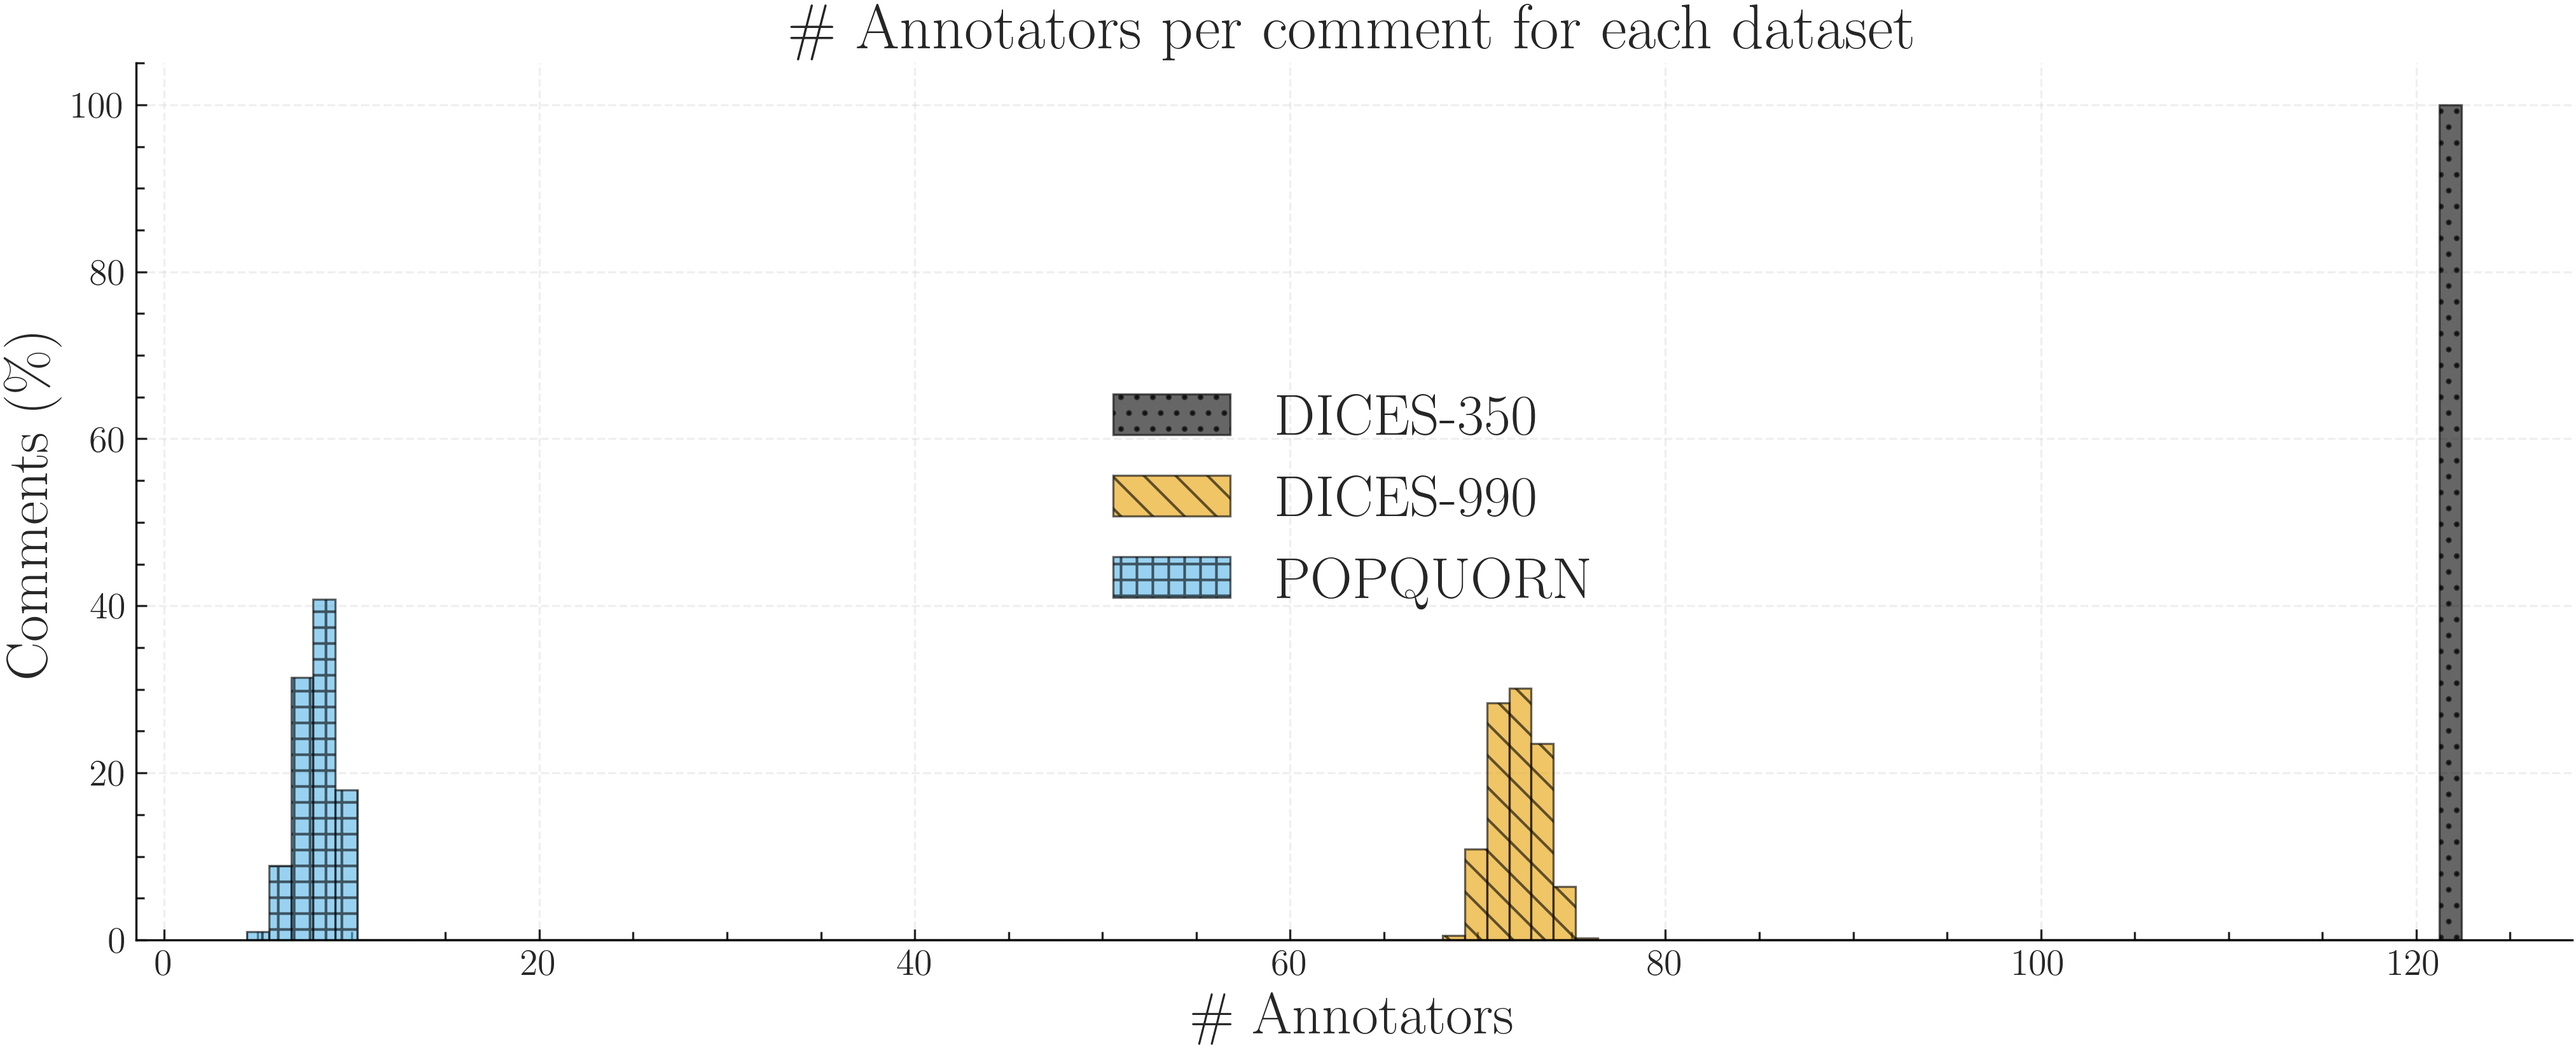
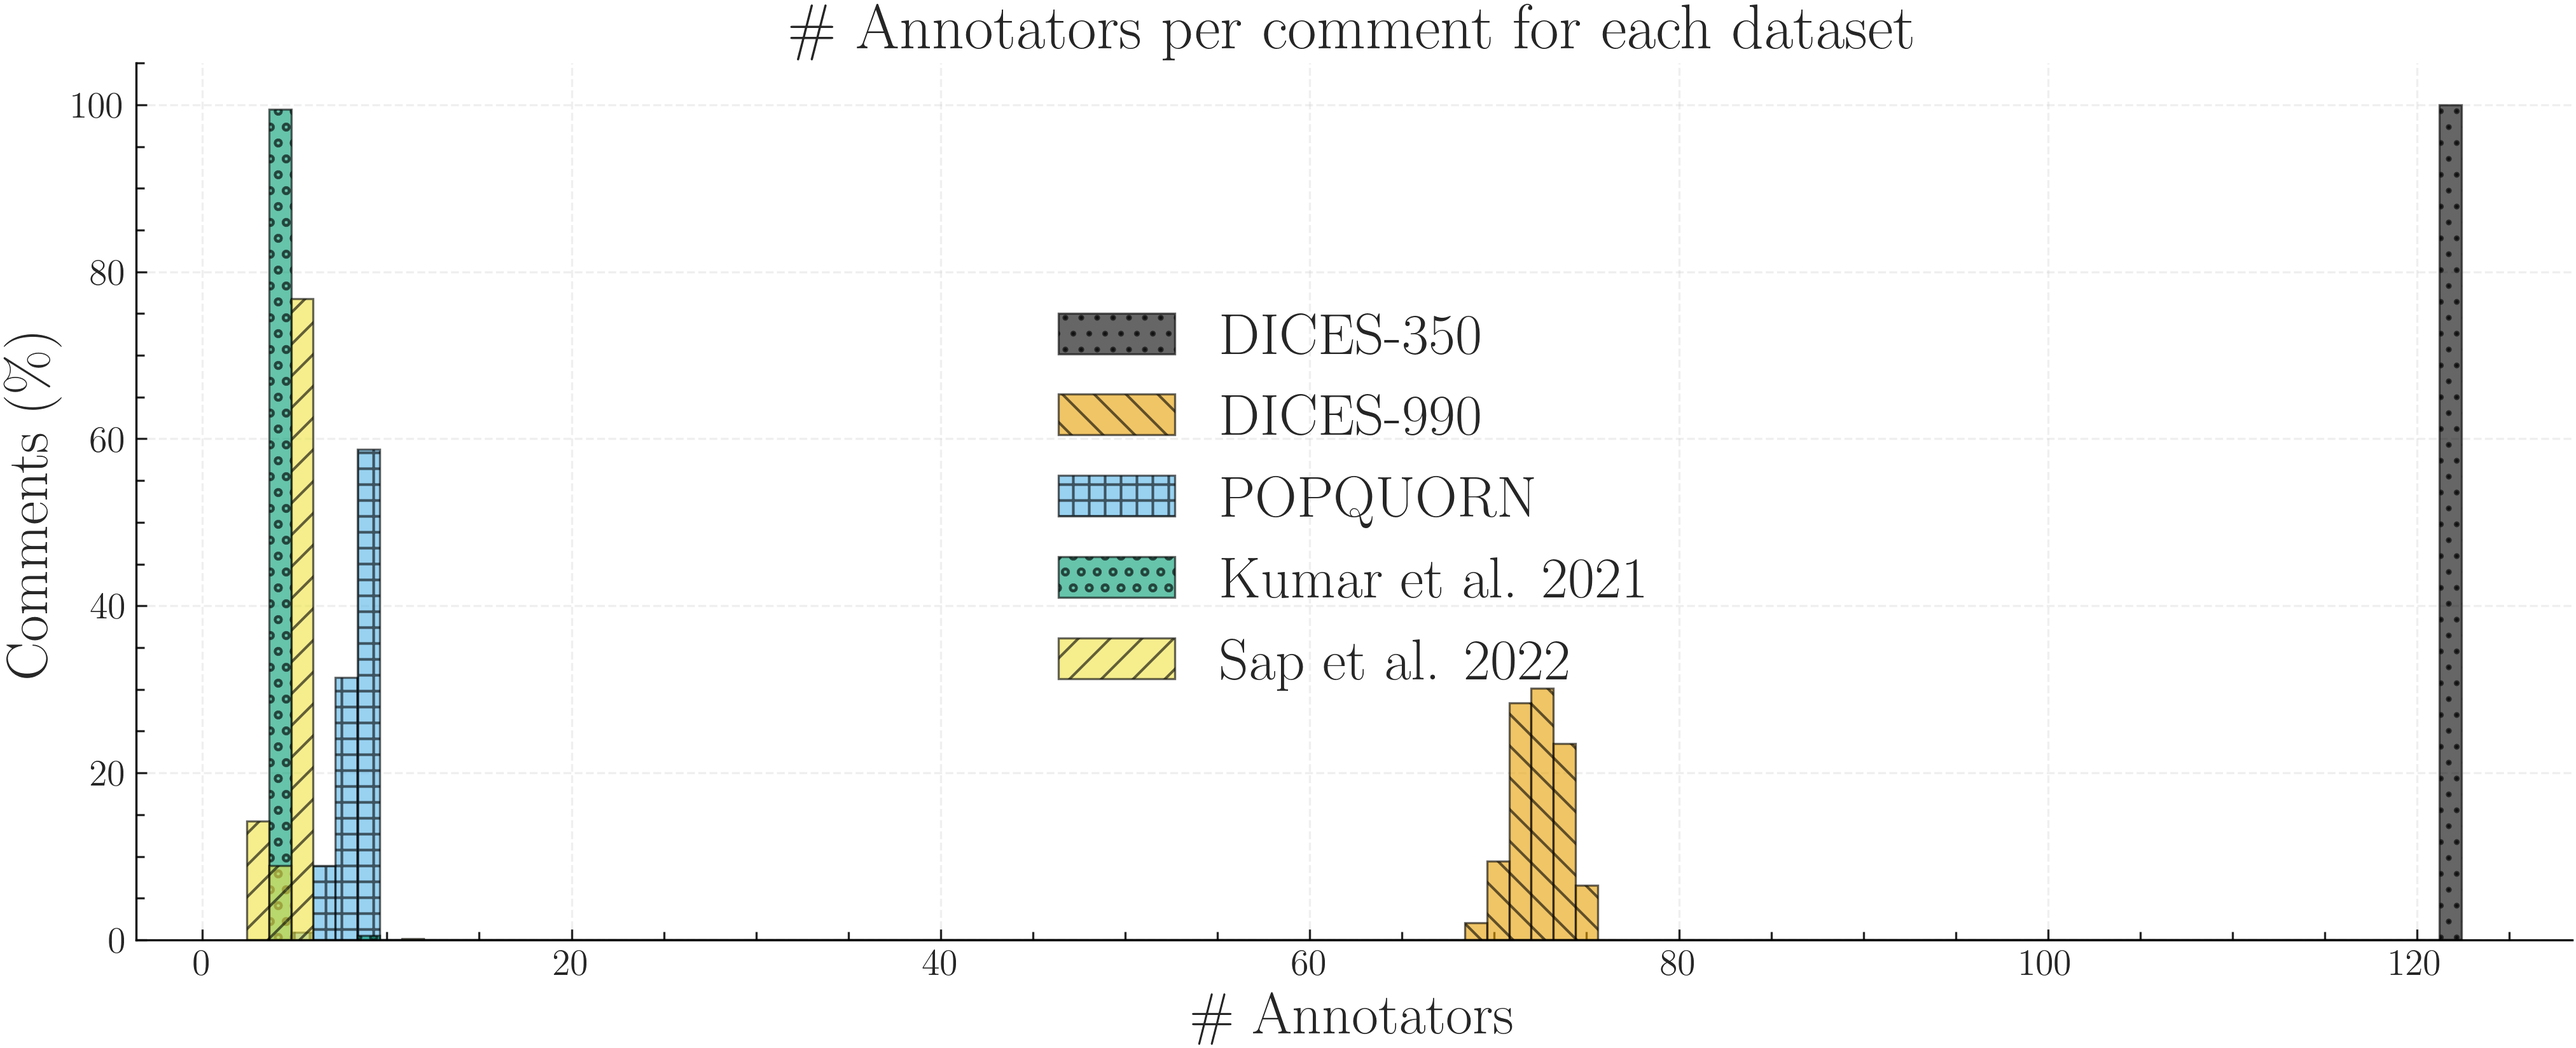
move dataset stats to export

diff --git a/src/human/export_results.py b/src/human/export_results.py
@@ -1,14 +1,23 @@
 import argparse
+from os import path
 from pathlib import Path
 
 import pandas as pd
 import numpy as np
+from scipy.sparse import data
 import seaborn as sns
 import matplotlib.pyplot as plt
 import matplotlib.patches as mpatches
 
 from ..lib import graphs
 from ..lib.util import center_table_latex, significance_superscript
+from ..lib.preprocessing import (
+    Dataset,
+    DicesDataset,
+    PopquornDataset,
+    SapDataset,
+    KumarDataset,
+)
 
 MIN_SUPPORT = 50
 SIG_ALPHA = 0.05  # p-value threshold for "statistically significant"
@@ -27,7 +36,16 @@ LINESTYLE_CYCLE = [
 ]
 
 
-def main(results_dir: Path, latex_output_dir: Path, graph_output_dir: Path):
+def main(
+    results_dir: Path,
+    dices_small_path: Path,
+    dices_large_path: Path,
+    popquorn_offensiveness_path: Path,
+    kumar_path: Path,
+    sap_path: Path,
+    latex_output_dir: Path,
+    graph_output_dir: Path,
+):
     graphs.graph_setup()
     csv_to_latex(
         result_paths=list(results_dir.rglob("*-results.csv")),
@@ -40,6 +58,41 @@ def main(results_dir: Path, latex_output_dir: Path, graph_output_dir: Path):
     plot_sample_size_polarization(
         csv_path=results_dir / "sample_size_polarization.csv",
         output_path=graph_output_dir / "sample_size_polarization.png",
+    )
+
+    dices350_ds = DicesDataset(dataset_path=dices_small_path, variant="350")
+    dices990_ds = DicesDataset(dataset_path=dices_large_path, variant="990")
+    popquorn_ds = PopquornDataset(dataset_path=popquorn_offensiveness_path)
+    kumar_ds = KumarDataset(dataset_path=kumar_path)
+    sap_ds = SapDataset(dataset_path=sap_path)
+    datasets: list[Dataset] = [
+        dices350_ds,
+        dices990_ds,
+        popquorn_ds,
+        kumar_ds,
+        sap_ds,
+    ]
+
+    Dataset.print_descriptive_statistics(datasets)
+    Dataset.print_annotation_count_table(datasets)
+
+    ann_size_df = get_annotator_counts_df(datasets)
+    stats_df = get_statistics_df(ann_size_df)
+    stats_df.to_latex(
+        latex_output_dir / "ann_stats.tex",
+        caption=(
+            "Descriptive statistics for the number of annotations per dataset."
+        ),
+        label="tab:num-annot",
+        position="ht",
+        index=True,
+        float_format="%.4f",
+        escape=True,
+    )
+
+    plot_annotator_count_histogram_from_datasets(
+        datasets=datasets,
+        graph_path=graph_output_dir / "annotator_count_histogram.png",
     )
 
 
@@ -111,6 +164,105 @@ def plot_dfu_histograms(
 
     graphs.save_plot(graph_output_dir / "apriori.png")
     plt.close()
+
+
+def plot_annotator_count_histogram_from_datasets(
+    datasets: list[Dataset],
+    graph_path: Path,
+):
+    """
+    Plot a histogram of annotator counts per comment across multiple datasets,
+    showing the percentage of comments for each bin.
+
+    Parameters
+    ----------
+    datasets : list
+        List of dataset objects.
+    graph_path : Path
+        If provided, saves the figure to this path.
+    """
+    N_BINS = 100
+    all_df = get_annotator_counts_df(datasets)
+
+    dataset_names = all_df["dataset"].unique().tolist()
+
+    # Determine bin boundaries
+    min_val = all_df["n_annotators"].min()
+    max_val = all_df["n_annotators"].max()
+    bins_edges = np.linspace(min_val, max_val, N_BINS + 1)
+    _, ax = plt.subplots()
+
+    for i, dataset_name in enumerate(dataset_names):
+        data_subset = all_df[all_df["dataset"] == dataset_name]["n_annotators"]
+
+        raw_counts, edges = np.histogram(data_subset, bins=bins_edges)
+
+        total_comments_for_dataset = len(data_subset)
+
+        if total_comments_for_dataset > 0:
+            percentage_counts = raw_counts / total_comments_for_dataset
+        else:
+            percentage_counts = np.zeros_like(raw_counts, dtype=float)
+
+        selected_color = graphs.COLORBLIND_PALETTE[
+            i % len(graphs.COLORBLIND_PALETTE)
+        ]
+        selected_hatch = graphs.HATCHES[i % len(graphs.HATCHES)]
+
+        ax.bar(
+            x=edges[:-1],
+            height=percentage_counts * 100,
+            width=(edges[1] - edges[0]),
+            label=dataset_name,
+            color=selected_color,
+            alpha=0.6,
+            hatch=selected_hatch,
+            edgecolor="black",
+        )
+
+    ax.legend(title=None, loc="center")
+    ax.set_xlabel(r"\# Annotators")
+    ax.set_ylabel(r"Comments (\%)")
+    ax.set_title(r"\# Annotators per comment for each dataset")
+    ax.grid(True, linestyle="--", alpha=0.3)
+    plt.tight_layout()
+
+    graphs.save_plot(graph_path)
+    plt.close()
+
+
+def get_annotator_counts_df(
+    datasets: list[Dataset],
+) -> pd.DataFrame:
+    rows = []
+
+    for ds in datasets:
+        df = ds.get_dataset().reset_index(drop=True)
+        ann_col = ds.get_annotation_column()
+        ds_name = ds.get_name()
+
+        tmp = pd.DataFrame(
+            {
+                "dataset": ds_name,
+                "n_annotators": df[ann_col].apply(len),
+            }
+        )
+        rows.append(tmp)
+
+    all_df = pd.concat(rows, ignore_index=True).dropna(subset=["n_annotators"])
+    return all_df
+
+
+def get_statistics_df(all_df: pd.DataFrame) -> pd.DataFrame:
+    """
+    Return a dataframe where each row corresponds to a dataset and each column
+    is a statistic from `describe()` applied to annotator counts.
+    """
+    return (
+        all_df.groupby("dataset")["n_annotators"]
+        .describe()  # computes count, mean, std, min, 25%, 50%, 75%, max
+        .rename_axis(index=None)  # optional: cleaner row index name
+    )
 
 
 def csv_to_latex(result_paths: list[Path], latex_output_dir: Path) -> None:
@@ -219,6 +371,31 @@ if __name__ == "__main__":
         help="Results CSV directory.",
     )
     parser.add_argument(
+        "--dices-small-path",
+        required=True,
+        help="Path to the DICES 350 annotator CSV file.",
+    )
+    parser.add_argument(
+        "--dices-large-path",
+        required=True,
+        help="Path to the DICES 990 annotator CSV file.",
+    )
+    parser.add_argument(
+        "--popquorn-path",
+        required=True,
+        help=("Path to the POPQUORN offensiveness dataset."),
+    )
+    parser.add_argument(
+        "--sap-path",
+        required=True,
+        help=("Path to the Sap dataset."),
+    )
+    parser.add_argument(
+        "--kumar-path",
+        required=True,
+        help=("Path to the Kumar dataset."),
+    )
+    parser.add_argument(
         "--latex-output-dir",
         required=True,
         help="Directory for the latex tables.",
@@ -231,6 +408,11 @@ if __name__ == "__main__":
     args = parser.parse_args()
     main(
         results_dir=Path(args.results_dir),
+        sap_path=Path(args.sap_path),
+        dices_small_path=Path(args.dices_small_path),
+        dices_large_path=Path(args.dices_large_path),
+        kumar_path=Path(args.kumar_path),
+        popquorn_offensiveness_path=Path(args.popquorn_path),
         latex_output_dir=Path(args.latex_output_dir),
         graph_output_dir=Path(args.graph_output_dir),
     )

diff --git a/src/human/variance_analysis.py b/src/human/variance_analysis.py
@@ -64,7 +64,6 @@ _UNDISCLOSED = {
 def main(
     dices_small_path: Path,
     dices_large_path: Path,
-    latex_output_dir: Path,
     popquorn_offensiveness_path: Path,
     graph_dir: Path,
     cache_dir: Path,
@@ -75,28 +74,6 @@ def main(
     dices990_ds = DicesDataset(dataset_path=dices_large_path, variant="990")
     popquorn_ds = PopquornDataset(dataset_path=popquorn_offensiveness_path)
     datasets: list[Dataset] = [dices350_ds, dices990_ds, popquorn_ds]
-
-    Dataset.print_descriptive_statistics(datasets)
-    Dataset.print_annotation_count_table(datasets)
-
-    ann_size_df = get_annotator_counts_df(datasets)
-    stats_df = get_statistics_df(ann_size_df)
-    stats_df.to_latex(
-        latex_output_dir / "ann_stats.tex",
-        caption=(
-            "Descriptive statistics for the number of annotations per dataset."
-        ),
-        label="tab:num-annot",
-        position="ht",
-        index=True,
-        float_format="%.4f",
-        escape=True,
-    )
-
-    plot_annotator_count_histogram_from_datasets(
-        datasets=datasets,
-        graph_path=graph_dir / "annotator_count_histogram.png",
-    )
 
     label_audit(datasets, cache_dir / "label_mapping.csv")
 
@@ -506,105 +483,6 @@ def get_dataset_variance(
     return res_df
 
 
-def plot_annotator_count_histogram_from_datasets(
-    datasets: list[Dataset],
-    graph_path: Path,
-):
-    """
-    Plot a histogram of annotator counts per comment across multiple datasets,
-    showing the percentage of comments for each bin.
-
-    Parameters
-    ----------
-    datasets : list
-        List of dataset objects.
-    graph_path : Path
-        If provided, saves the figure to this path.
-    """
-    N_BINS = 100
-    all_df = get_annotator_counts_df(datasets)
-
-    dataset_names = all_df["dataset"].unique().tolist()
-
-    # Determine bin boundaries
-    min_val = all_df["n_annotators"].min()
-    max_val = all_df["n_annotators"].max()
-    bins_edges = np.linspace(min_val, max_val, N_BINS + 1)
-    _, ax = plt.subplots()
-
-    for i, dataset_name in enumerate(dataset_names):
-        data_subset = all_df[all_df["dataset"] == dataset_name]["n_annotators"]
-
-        raw_counts, edges = np.histogram(data_subset, bins=bins_edges)
-
-        total_comments_for_dataset = len(data_subset)
-
-        if total_comments_for_dataset > 0:
-            percentage_counts = raw_counts / total_comments_for_dataset
-        else:
-            percentage_counts = np.zeros_like(raw_counts, dtype=float)
-
-        selected_color = graphs.COLORBLIND_PALETTE[
-            i % len(graphs.COLORBLIND_PALETTE)
-        ]
-        selected_hatch = graphs.HATCHES[i % len(graphs.HATCHES)]
-
-        ax.bar(
-            x=edges[:-1],
-            height=percentage_counts * 100,
-            width=(edges[1] - edges[0]),
-            label=dataset_name,
-            color=selected_color,
-            alpha=0.6,
-            hatch=selected_hatch,
-            edgecolor="black",
-        )
-
-    ax.legend(title=None, loc="center")
-    ax.set_xlabel(r"\# Annotators")
-    ax.set_ylabel(r"Comments (\%)")
-    ax.set_title(r"\# Annotators per comment for each dataset")
-    ax.grid(True, linestyle="--", alpha=0.3)
-    plt.tight_layout()
-
-    graphs.save_plot(graph_path)
-    plt.close()
-
-
-def get_annotator_counts_df(
-    datasets: list[Dataset],
-) -> pd.DataFrame:
-    rows = []
-
-    for ds in datasets:
-        df = ds.get_dataset().reset_index(drop=True)
-        ann_col = ds.get_annotation_column()
-        ds_name = ds.get_name()
-
-        tmp = pd.DataFrame(
-            {
-                "dataset": ds_name,
-                "n_annotators": df[ann_col].apply(len),
-            }
-        )
-        rows.append(tmp)
-
-    all_df = pd.concat(rows, ignore_index=True).dropna(subset=["n_annotators"])
-    return all_df
-
-
-def get_statistics_df(all_df: pd.DataFrame) -> pd.DataFrame:
-    """
-    Return a dataframe where each row corresponds to a dataset and each column
-    is a statistic from `describe()` applied to annotator counts.
-    """
-    return (
-        all_df.groupby("dataset")["n_annotators"]
-        .describe()  # computes count, mean, std, min, 25%, 50%, 75%, max
-        .rename_axis(index=None)  # optional: cleaner row index name
-    )
-
-
 if __name__ == "__main__":
     parser = argparse.ArgumentParser(
         description=("Create plots analyzing effect of #annotators.")
@@ -628,11 +506,6 @@ if __name__ == "__main__":
         "--graph-output-dir", required=True, help="Directory for the graphs."
     )
     parser.add_argument(
-        "--latex-output-dir",
-        required=True,
-        help="Directory for the latex tables.",
-    )
-    parser.add_argument(
         "--cache-dir",
         required=True,
         help="Directory for cached variance computations.",
@@ -649,7 +522,6 @@ if __name__ == "__main__":
     main(
         dices_small_path=Path(args.dices_small_path),
         dices_large_path=Path(args.dices_large_path),
-        latex_output_dir=Path(args.latex_output_dir),
         graph_dir=Path(args.graph_output_dir),
         cache_dir=Path(args.cache_dir),
         min_comment_annotators=args.min_comment_annotators,
